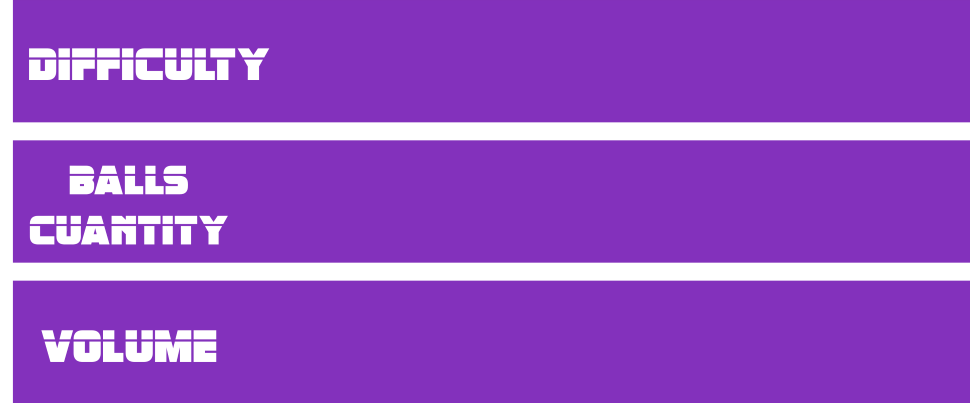
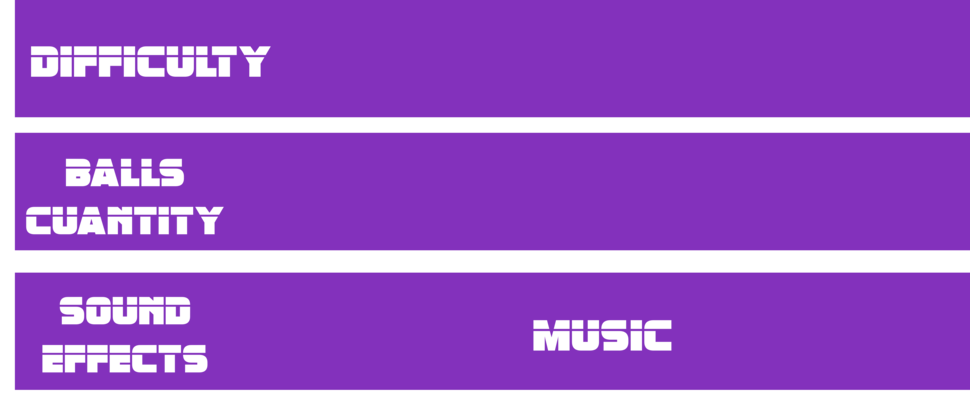
Commit: actualizacion de la clase Settings

diff --git a/src/interfaz/Settings.java b/src/interfaz/Settings.java
@@ -3,11 +3,11 @@
  * Click nbfs://nbhost/SystemFileSystem/Templates/GUIForms/JFrame.java to edit this template
  */
 package interfaz;
-
-import configuraciones.Configuraciones;
-import configuraciones.Observer;
-import interfaz.paneles.PanelIMG;
-import java.awt.Image;
+import interfaz.paneles.*;
+import configuraciones.*;
+import java.awt.*;
+import java.awt.event.ActionEvent;
+import java.io.*;
 import javax.swing.*;
 
 /**
@@ -25,12 +25,17 @@ public class Settings extends javax.swing.JFrame implements Observer {
     JButton easyButton = new JButton();
     JButton normalButton = new JButton();
     JButton hardButton = new JButton();
-    JButton BminusButton = new JButton();
-    JButton BplusButton = new JButton();
-    JButton VminusButton = new JButton();
-    JButton VplusButton = new JButton();
-    JLabel ballsState = new JLabel();
-    JLabel volumeState = new JLabel();
+    JButton minusButton = new JButton();
+    JButton plusButton = new JButton();
+    JButton soundButton = new JButton();
+    JButton musicButton = new JButton();
+    JLabel ballCountL = new JLabel();
+    PanelIMG ballCountPanel = new PanelIMG();
+    
+    private JButton closeButton = new JButton();
+    private JButton minimizeButton = new JButton();
+    
+    Font text;
 
     /**
      * Creates new form Settings
@@ -73,14 +78,135 @@ public class Settings extends javax.swing.JFrame implements Observer {
         settingsPanel.add(cancelButton);
 
         subPanels.setImage("recursos/settingsSubPanels.png");
-        subPanels.scaleImage(970, 403);
         subPanels.setBounds(80, 110, 970, 403);
         subPanels.setLayout(null);
         subPanels.setOpaque(false);
         settingsPanel.add(subPanels);
+        
+        easyButton.setIcon(new ImageIcon("recursos/easyNormalButton.png"));
+        easyButton.setRolloverIcon(new ImageIcon("recursos/easyButtonPressed.png"));
+        easyButton.setBounds(350,3, 117, 117);
+        easyButton.setBorderPainted(false);
+        easyButton.setContentAreaFilled(false);
+        easyButton.setOpaque(false);
+        easyButton.setLayout(null);
+        subPanels.add(easyButton);
+        
+        normalButton.setIcon(new ImageIcon("recursos/normalNormalButton.png"));
+        normalButton.setRolloverIcon(new ImageIcon("recursos/normalButtonPressed.png"));
+        normalButton.setBounds(550,3, 117, 117);
+        normalButton.setBorderPainted(false);
+        normalButton.setContentAreaFilled(false);
+        normalButton.setOpaque(false);
+        normalButton.setLayout(null);
+        subPanels.add(normalButton);
+        
+        hardButton.setIcon(new ImageIcon("recursos/hardNormalButton.png"));
+        hardButton.setRolloverIcon(new ImageIcon("recursos/hardButtonPressed.png"));
+        hardButton.setBounds(750,3, 117, 117);
+        hardButton.setBorderPainted(false);
+        hardButton.setContentAreaFilled(false);
+        hardButton.setOpaque(false);
+        hardButton.setLayout(null);
+        subPanels.add(hardButton);
+        
+        soundButton.setIcon(new ImageIcon("recursos/speakerButton.png"));
+        soundButton.setRolloverIcon(new ImageIcon("recursos/speakerButtonPressed.png"));
+        soundButton.setBounds(320,284, 96, 96);
+        soundButton.setBorderPainted(false);
+        soundButton.setContentAreaFilled(false);
+        soundButton.setOpaque(false);
+        soundButton.setLayout(null);
+        subPanels.add(soundButton);
+        
+        musicButton.setIcon(new ImageIcon("recursos/speakerButton.png"));
+        musicButton.setRolloverIcon(new ImageIcon("recursos/speakerButtonPressed.png"));
+        musicButton.setBounds(760,284, 96, 96);
+        musicButton.setBorderPainted(false);
+        musicButton.setContentAreaFilled(false);
+        musicButton.setOpaque(false);
+        musicButton.setLayout(null);
+        subPanels.add(musicButton);
+        
+        minusButton.setIcon(new ImageIcon("recursos/minusButton.png"));
+        minusButton.setRolloverIcon(new ImageIcon("recursos/minusButtonPressed.png"));
+        minusButton.setBounds(330,160, 64, 64);
+        minusButton.setBorderPainted(false);
+        minusButton.setContentAreaFilled(false);
+        minusButton.setOpaque(false);
+        minusButton.setLayout(null);
+        subPanels.add(minusButton);   
+        
+        plusButton.setIcon(new ImageIcon("recursos/plusButton.png"));
+        plusButton.setRolloverIcon(new ImageIcon("recursos/plusButtonPressed.png"));
+        plusButton.setBounds(780,160, 64, 64);
+        plusButton.setBorderPainted(false);
+        plusButton.setContentAreaFilled(false);
+        plusButton.setOpaque(false);
+        plusButton.setLayout(null);
+        subPanels.add(plusButton); 
+        
+        
+        ballCountPanel.setImage("recursos/BallCountLabel.png");
+        ballCountPanel.setBounds(495,153, 170, 80);
+        ballCountPanel.setLayout(null);
+        ballCountPanel.setOpaque(false);
+        subPanels.add(ballCountPanel);
+        
+        try {
+        InputStream is = new BufferedInputStream(new FileInputStream("fonts/Retronoid.TTF"));;
+            text = Font.createFont(Font.TRUETYPE_FONT, is);
+        } catch (IOException | FontFormatException e) {
+            e.printStackTrace();
+        }
+        
+        ballCountL.setBounds(0,0, 170, 80);
+        ballCountL.setFont(text.deriveFont(Font.PLAIN, 55));
+        ballCountL.setHorizontalAlignment(SwingConstants.CENTER);
+        ballCountL.setVerticalAlignment(SwingConstants.CENTER);
+        ballCountL.setForeground(Color.white);
+        ballCountL.setLayout(null);
+        ballCountL.setOpaque(false);
+        ballCountL.setText("1");
+        ballCountPanel.add(ballCountL); 
 
+        closeButton.setIcon(new ImageIcon("recursos/closeButton.png"));
+        closeButton.setRolloverIcon(new ImageIcon("recursos/closeButtonRed.png"));
+        closeButton.setBounds(1173, 3, 24,24);
+        closeButton.setBorderPainted(false);
+        closeButton.setContentAreaFilled(false);
+        closeButton.setOpaque(false);
+        closeButton.setLayout(null);
+        settingsMarco.add(closeButton);    
+        closeButton.addActionListener(new java.awt.event.ActionListener() {
+            public void actionPerformed(java.awt.event.ActionEvent evt) {
+                closeButtonActionPerformed(evt);
+            }
+        });      
+
+        minimizeButton.setIcon(new ImageIcon("recursos/MinimizeButton.png"));
+        minimizeButton.setRolloverIcon(new ImageIcon("recursos/MinimizeButtonGray.png"));
+        minimizeButton.setBounds(1135, 3, 24,24);
+        minimizeButton.setBorderPainted(false);
+        minimizeButton.setContentAreaFilled(false);
+        minimizeButton.setOpaque(false);
+        minimizeButton.setLayout(null);
+        settingsMarco.add(minimizeButton);    
+        minimizeButton.addActionListener(new java.awt.event.ActionListener() {
+            public void actionPerformed(java.awt.event.ActionEvent evt) {
+                minimizeButtonActionPerformed(evt);
+            }
+        }); 
+        
     }
 
+    private void closeButtonActionPerformed(ActionEvent evt) {
+        System.exit(0);
+    }
+    
+    private void minimizeButtonActionPerformed(ActionEvent evt) {
+        this.setExtendedState(1);
+    }  
     /**
      * This method is called from within the constructor to initialize the form. WARNING: Do NOT modify this code. The content of this method is always regenerated by the Form Editor.
      */
